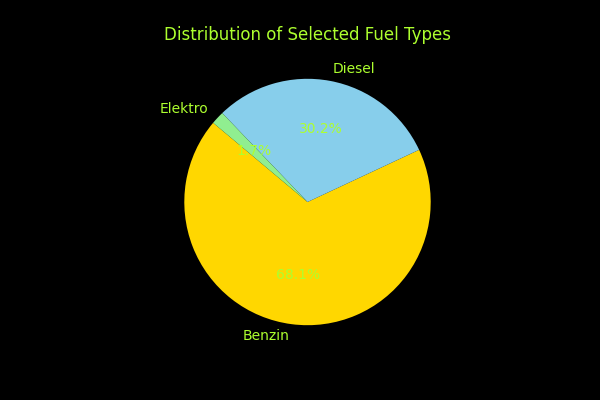
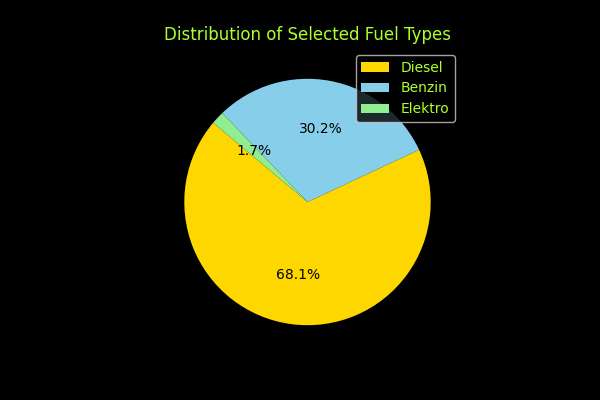
...

diff --git a/Week_05/exercises/flask_car_data_dashboard/app.py b/Week_05/exercises/flask_car_data_dashboard/app.py
@@ -1,4 +1,8 @@
-import os
+"""
+This module creates a Flask app that displays a dashboard with four plots. 
+Different plots are created and saved as images in the static folder.
+"""
+
 import pandas as pd
 import matplotlib.pyplot as plt
 from flask import Flask, render_template
@@ -6,7 +10,7 @@ from flask import Flask, render_template
 # Set graphical parameters
 plt.style.use('dark_background')
 plt.rcParams.update({
-    'text.color': 'greenyellow',
+    'text.color': 'black',
     'axes.labelcolor': 'greenyellow',
     'xtick.color': 'greenyellow',
     'ytick.color': 'greenyellow',
@@ -15,9 +19,9 @@ plt.rcParams.update({
     'axes.titlecolor': 'greenyellow'
 })
 
-# Load the dataset
-file_path = '../data/autoscout24_data_enriched_cleaned.csv'
-df = pd.read_csv(file_path)
+# Read the dataset
+FILE_PATH = '../data/autoscout24_data_enriched_cleaned.csv'
+df = pd.read_csv(FILE_PATH)
 
 # Change columns to lower case and replace spaces with underscores
 df.columns = df.columns.str.lower()
@@ -25,11 +29,7 @@ df.columns = df.columns.str.lower()
 # Create the Flask app
 app = Flask(__name__)
 
-# Create the necessary plots and save them to the static folder
-if not os.path.exists('static'):
-    os.makedirs('static')
-
-# 1. Histogram of price
+# Create histogram
 plt.figure(figsize=(6, 4))
 df['price'].hist(bins=30, color='skyblue', alpha=0.7)
 plt.title('Histogram of Price')
@@ -38,42 +38,47 @@ plt.ylabel('Frequency')
 plt.savefig('static/histogram_price.png')
 plt.close()
 
-# 2. Bar chart of number of cars per fuel type
+# Create bar chart
 plt.figure(figsize=(6, 4))
-df[df['fuel_type'].isin(['Elektro', 
-                         'Diesel', 
-                         'Benzin'])]['fuel_type'].value_counts().sort_values(ascending=True).plot(kind='barh', 
-                                                                                                   color='skyblue', 
-                                                                                                   alpha=0.7)
+df[df['fuel_type'].isin(['Elektro',
+                         'Diesel',
+                         'Benzin'])]['fuel_type'].value_counts().sort_values(
+    ascending=True).plot(kind='barh', color='skyblue', alpha=0.7)
 plt.title('Number of Cars per Fuel Type')
 plt.xlabel('Count')
 plt.ylabel('Fuel Type')
 plt.savefig('static/barh_fuel_type.png')
 plt.close()
 
-# 3. Pie chart for selected fuel types
+# Create pie chart
 plt.figure(figsize=(6, 4))
-df[df['fuel_type'].isin(['Diesel', 'Benzin', 'Elektro'])]['fuel_type'].value_counts().plot(
-    kind='pie', 
-    autopct='%1.1f%%', 
-    startangle=140, 
-    colors=['gold', 'skyblue', 'lightgreen']
+df[df['fuel_type'].isin(['Diesel',
+                         'Benzin',
+                         'Elektro'])]['fuel_type'].value_counts().plot(
+    kind='pie',
+    autopct='%1.1f%%',
+    startangle=140,
+    colors=['gold', 'skyblue', 'lightgreen'],
+    textprops={'color': 'black'}
 )
 plt.title('Distribution of Selected Fuel Types')
 plt.ylabel('')
+plt.legend(labels=['Diesel', 'Benzin', 'Elektro'], 
+           loc='upper right',
+           labelcolor='greenyellow')
 plt.savefig('static/pie_fuel_type.png')
 plt.close()
 
-# 4. Boxplot of mileage
+# Create boxplot
 plt.figure(figsize=(6, 4))
-boxplot = df['mileage'].plot(kind='box', 
-                            color='yellow',
-                             vert=False, 
-                             patch_artist=True, 
-                             flierprops=dict(markerfacecolor='yellow', 
-                                             markeredgecolor='yellow', 
-                                             marker='o'),
-                            medianprops=dict(color='gray'))
+boxplot = df['mileage'].plot(kind='box',
+                             color='yellow',
+                             vert=False,
+                             patch_artist=True,
+                             flierprops={'markerfacecolor': 'yellow',
+                                         'markeredgecolor': 'yellow',
+                                         'marker': 'o'},
+                             medianprops={'color': 'gray'})
 plt.title('Boxplot of Mileage')
 plt.xlabel('Mileage')
 plt.xticks(color='greenyellow')
@@ -84,60 +89,9 @@ plt.close()
 # Define the routes
 @app.route('/')
 def index():
+    """Return the index.html template."""
     return render_template('index.html')
 
-# HTML template
-html_template = """<!DOCTYPE html>
-<html lang="en">
-<head>
-    <meta charset="UTF-8">
-    <meta name="viewport" content="width=device-width, initial-scale=1.0">
-    <title>Car Data Graphics</title>
-    <style>
-        body {
-            background-color: black;
-            color: greenyellow;
-            margin: 0;
-            padding: 0;
-        }
-        .image-container {
-            display: grid;
-            grid-template-columns: repeat(2, 1fr);
-            gap: 5px;
-            width: 80vw;
-            margin: auto;
-            align-items: center;
-        }
-        .image-container div {
-            display: flex;
-            justify-content: center;
-            align-items: left;
-            width: 80%;
-        }
-        img {
-            width: 100%;
-            display: block;
-        }
-    </style>
-</head>
-<body>
-    <h1>Car Data Dashboard</h1>
-    <div class="image-container">
-        <div><img src="/static/histogram_price.png" alt="Histogram of Price"></div>
-        <div><img src="/static/barh_fuel_type.png" alt="Bar Chart of Fuel Types"></div>
-        <div><img src="/static/pie_fuel_type.png" alt="Pie Chart of Fuel Types"></div>
-        <div><img src="/static/boxplot_mileage.png" alt="Boxplot of Mileage"></div>
-    </div>
-</body>
-</html>
-"""
-
-# Write the HTML template to the templates folder
-if not os.path.exists('templates'):
-    os.makedirs('templates')
-
-with open('templates/index.html', 'w') as f:
-    f.write(html_template)
 
 if __name__ == '__main__':
     app.run(debug=True)
